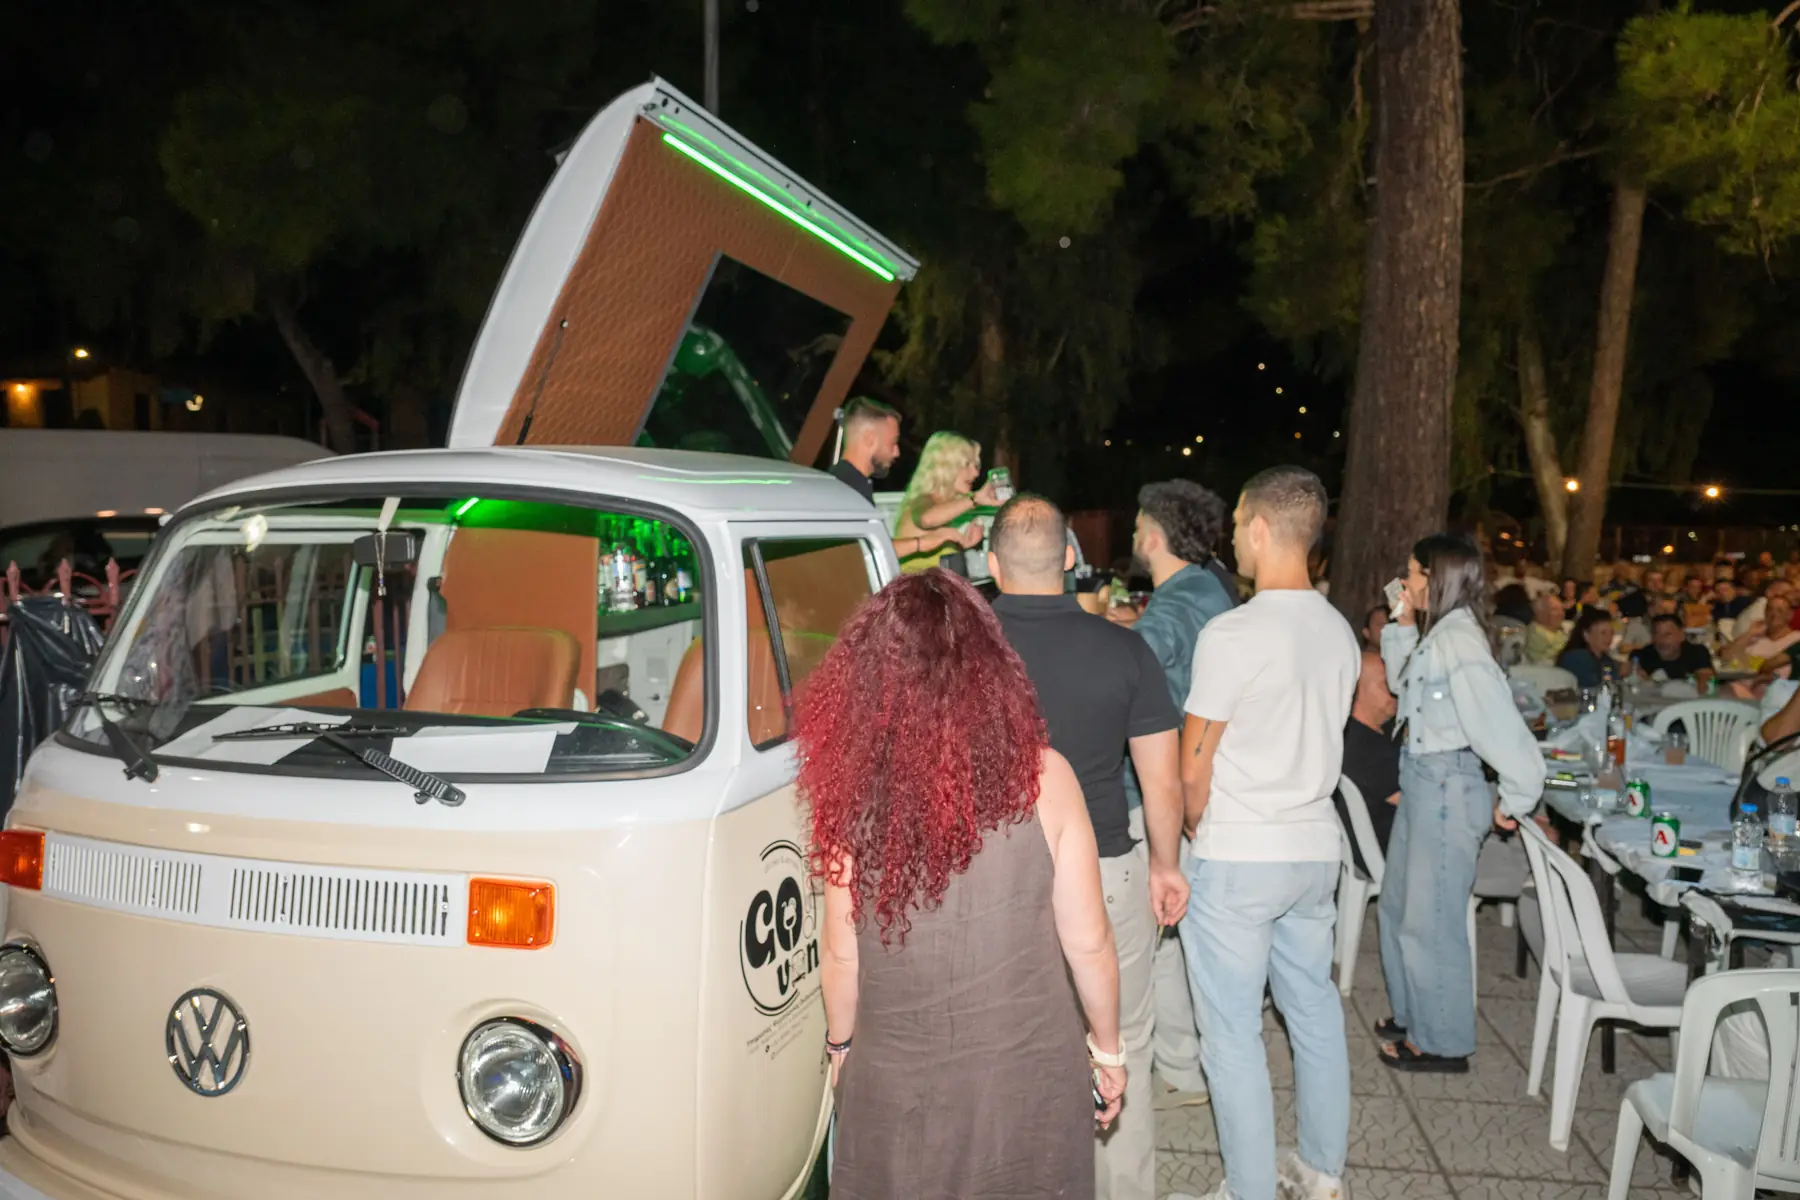
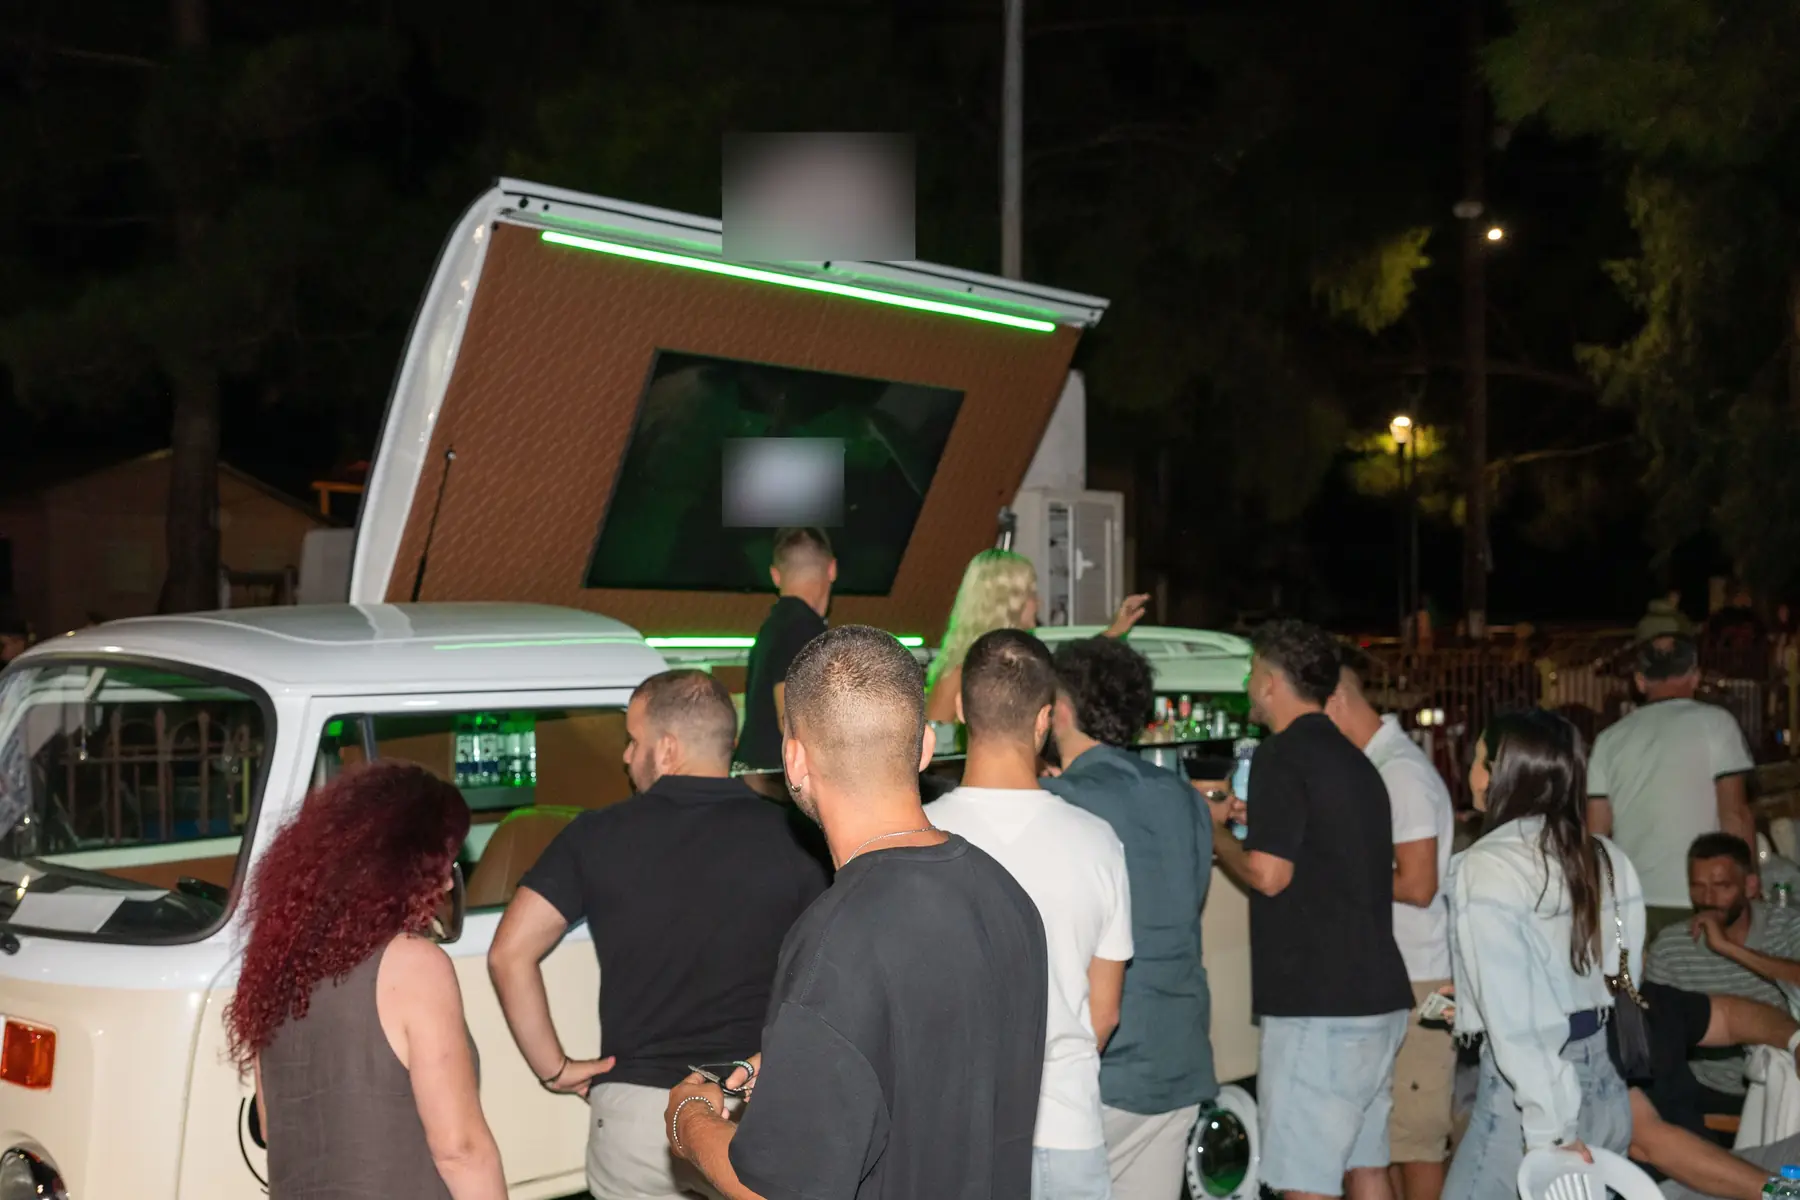
New gallery photos chosen with the client
New big scene of the crowd at the van, plus a guest with a drink, the 360
at night and the guestbook phone with the mirror. Removes the Stoli frame,
the portable bar photo already in Services and the side view on the phone.
Advert cropped out, other brands and the couple's names blurred.

diff --git a/lib/media.ts b/lib/media.ts
@@ -349,29 +349,29 @@ export const media = {
     },
     "consent": "pending"
   },
-  "gallery-moment-pour": {
+  "gallery-moment-cheers": {
     "kind": "photo",
-    "src": "/media/gallery-moment-pour-400.webp",
-    "srcSet": "/media/gallery-moment-pour-400.webp 400w, /media/gallery-moment-pour-800.webp 800w, /media/gallery-moment-pour-1080.webp 1080w",
-    "width": 1080,
-    "height": 1350,
+    "src": "/media/gallery-moment-cheers-400.webp",
+    "srcSet": "/media/gallery-moment-cheers-400.webp 400w, /media/gallery-moment-cheers-800.webp 800w, /media/gallery-moment-cheers-1024.webp 1024w",
+    "width": 1024,
+    "height": 1280,
     "alt": {
-      "el": "Ο barman φτιάχνει κοκτέιλ κάτω από μωβ φως",
-      "en": "The barman mixing a cocktail under purple light"
+      "el": "Χαμογελαστός καλεσμένος σηκώνει το ποτήρι του δίπλα στο van",
+      "en": "A smiling guest raising a glass beside the van"
     },
-    "consent": "pending"
+    "consent": "none"
   },
-  "gallery-moment-portable": {
+  "gallery-360-night": {
     "kind": "photo",
-    "src": "/media/gallery-moment-portable-400.webp",
-    "srcSet": "/media/gallery-moment-portable-400.webp 400w, /media/gallery-moment-portable-800.webp 800w, /media/gallery-moment-portable-1080.webp 1080w",
+    "src": "/media/gallery-360-night-400.webp",
+    "srcSet": "/media/gallery-360-night-400.webp 400w, /media/gallery-360-night-800.webp 800w, /media/gallery-360-night-1080.webp 1080w",
     "width": 1080,
     "height": 1350,
     "alt": {
-      "el": "Το Portable Bar με τον barman και neon επιγραφή",
-      "en": "The Portable Bar with the barman and a neon sign"
+      "el": "Το 360 Video Booth τη νύχτα, με μπλε φώτα και τα props σε βαλίτσα με neon επιγραφή",
+      "en": "The 360 Video Booth at night in blue light, with the props in a suitcase with a neon sign"
     },
-    "consent": "pending"
+    "consent": "none"
   },
   "gallery-moment-van-far": {
     "kind": "photo",
@@ -385,17 +385,17 @@ export const media = {
     },
     "consent": "pending"
   },
-  "gallery-moment-call": {
+  "gallery-phone-mirror": {
     "kind": "photo",
-    "src": "/media/gallery-moment-call-400.webp",
-    "srcSet": "/media/gallery-moment-call-400.webp 400w, /media/gallery-moment-call-800.webp 800w, /media/gallery-moment-call-1080.webp 1080w",
+    "src": "/media/gallery-phone-mirror-400.webp",
+    "srcSet": "/media/gallery-phone-mirror-400.webp 400w, /media/gallery-phone-mirror-800.webp 800w, /media/gallery-phone-mirror-1080.webp 1080w",
     "width": 1080,
     "height": 1350,
     "alt": {
-      "el": "Καλεσμένη αφήνει ευχή στο τηλέφωνο",
-      "en": "A guest leaving a message on the guestbook phone"
+      "el": "Το vintage τηλέφωνο ευχών με λουλούδια και καθρέφτη υποδοχής, με θέα τον κάμπο",
+      "en": "The vintage guestbook phone with flowers and a welcome mirror, overlooking the valley"
     },
-    "consent": "pending"
+    "consent": "none"
   },
   "gallery-moment-wedding": {
     "kind": "photo",
@@ -419,7 +419,7 @@ export const media = {
       "el": "Καλεσμένοι γύρω από το van σε γλέντι",
       "en": "Guests gathered around the van at a party"
     },
-    "consent": "pending"
+    "consent": "none"
   }
 } as const;
 

diff --git a/components/Gallery.tsx b/components/Gallery.tsx
@@ -11,11 +11,11 @@ const photos = [
   { id: "gallery-van-crowd", feature: true },
   { id: "gallery-moment-laugh" },
   { id: "gallery-moment-green" },
-  { id: "gallery-moment-pour" },
-  { id: "gallery-moment-portable" },
+  { id: "gallery-moment-cheers" },
+  { id: "gallery-360-night" },
   { id: "gallery-moment-wedding", wide: true },
   { id: "gallery-moment-van-far" },
-  { id: "gallery-moment-call" },
+  { id: "gallery-phone-mirror" },
 ] as const;
 
 type Props = {
